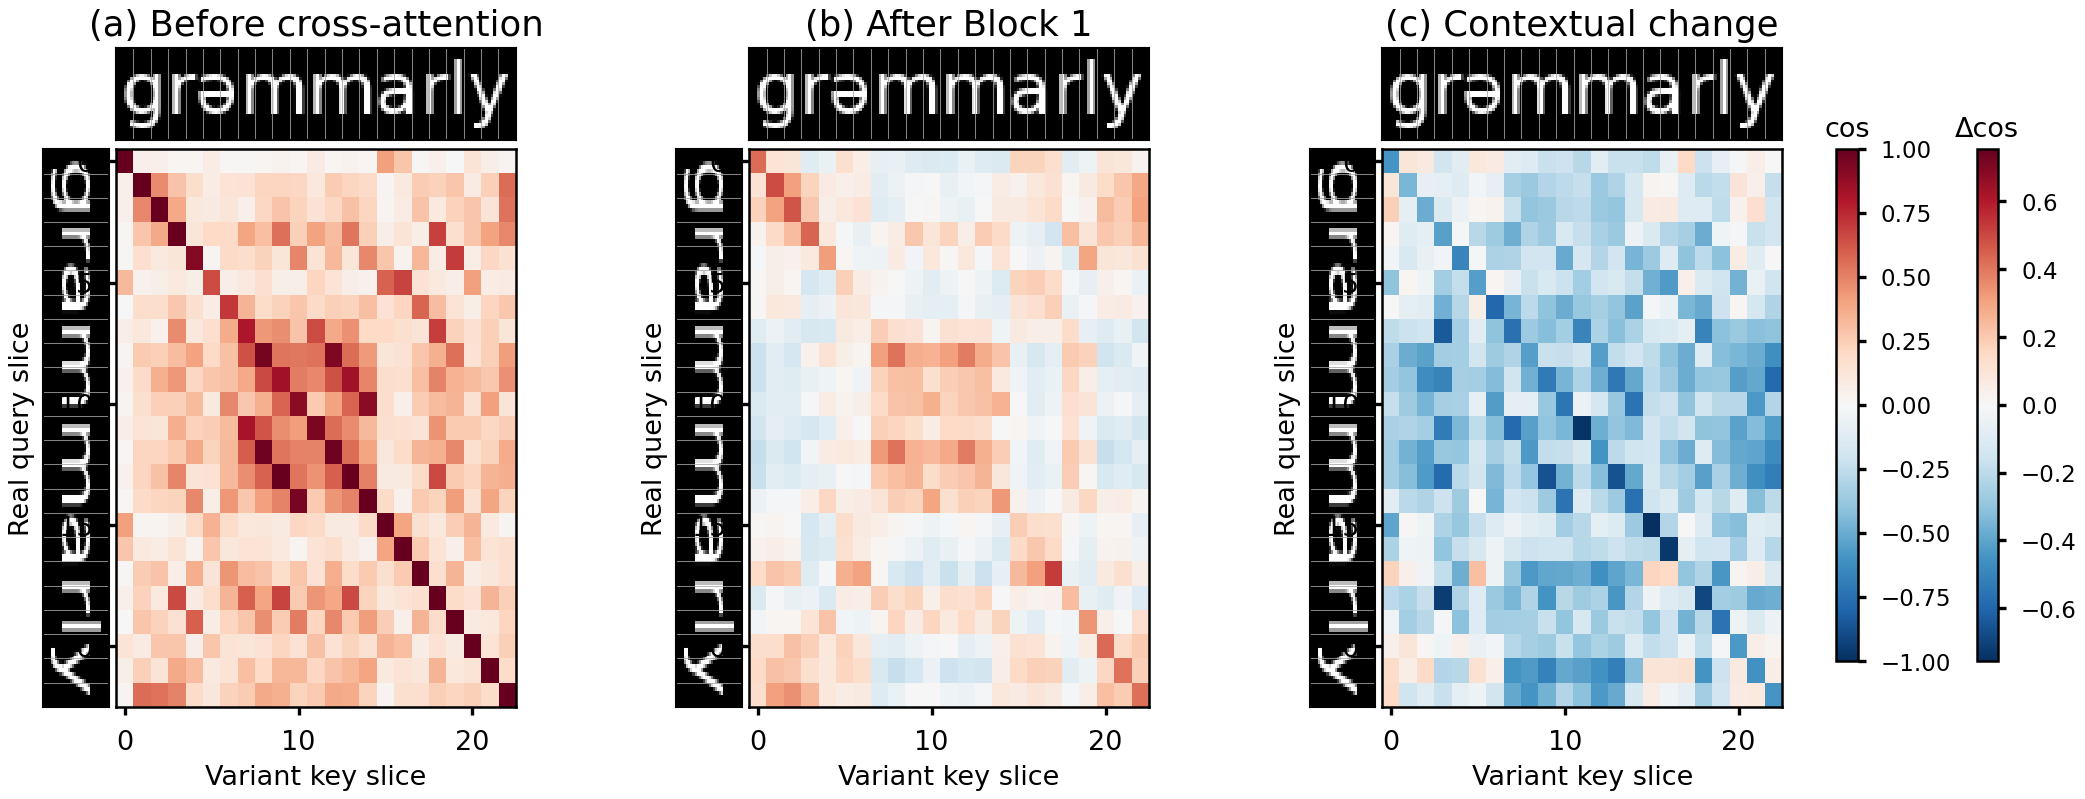
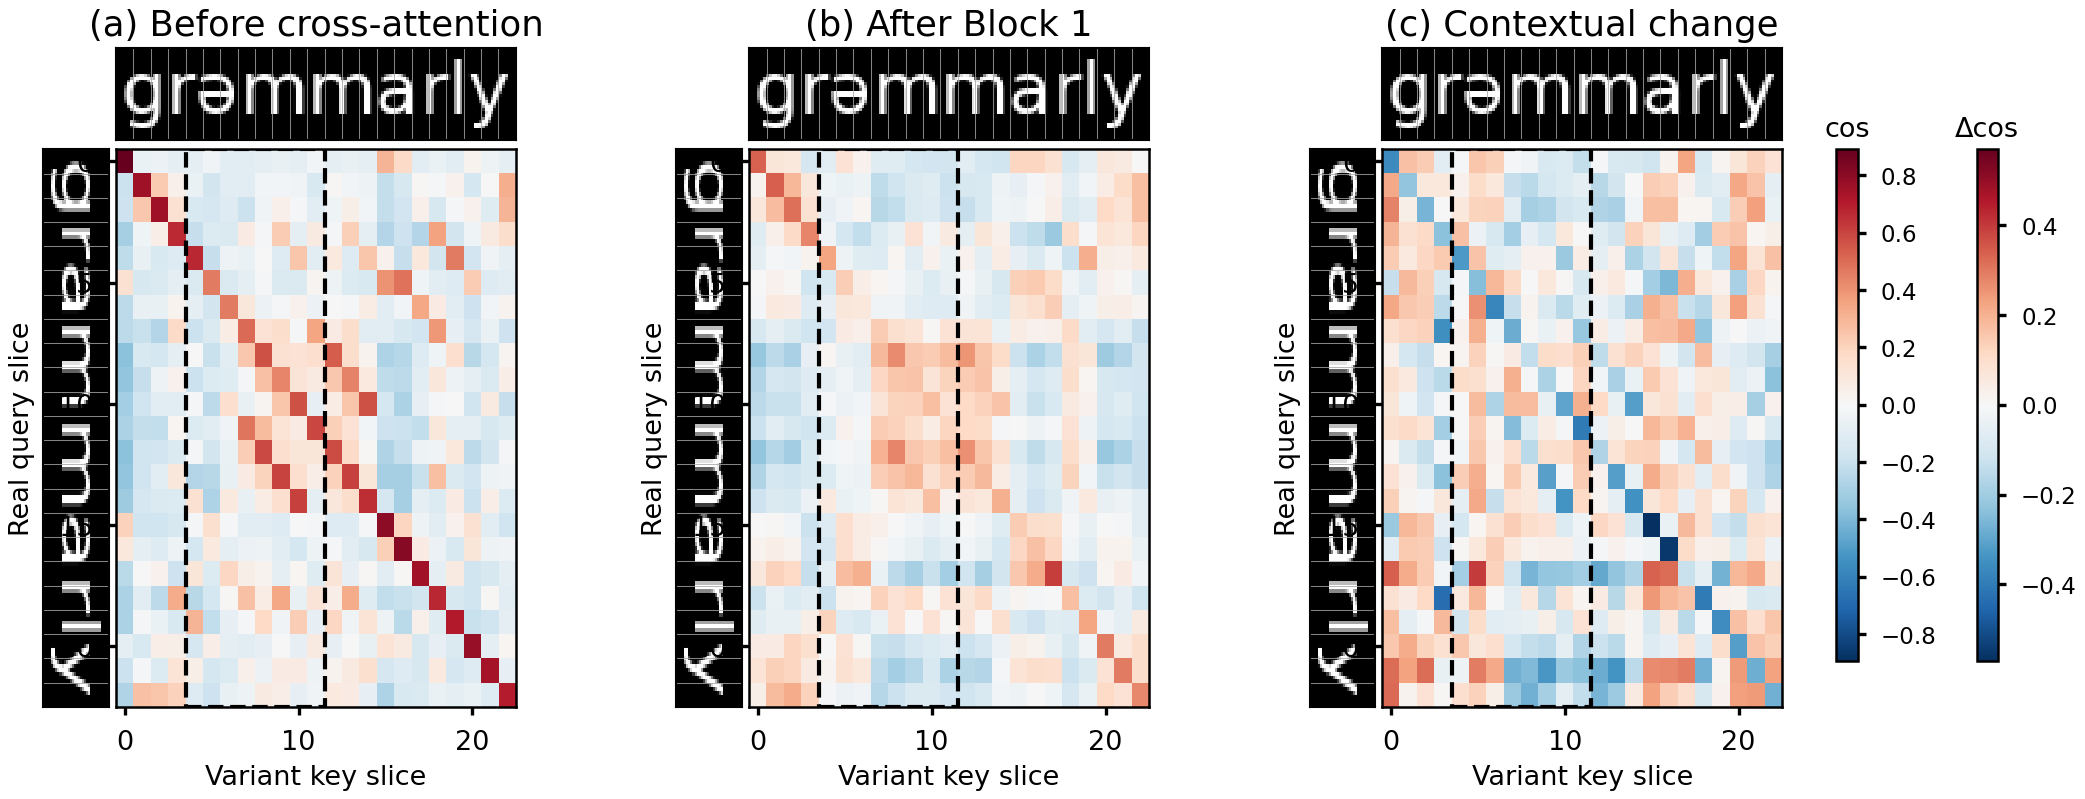
Clarify contextual similarity changes

diff --git a/synth_dataset/scripts/build_paper_alignment_figures.py b/synth_dataset/scripts/build_paper_alignment_figures.py
@@ -210,6 +210,7 @@ def add_map_panel(
     vmax: float,
     x_label: str,
     y_label: str,
+    highlight_columns: tuple[int, int] | None = None,
 ) -> Any:
     grid = slot.subgridspec(
         2, 2, width_ratios=(1.15, 7.0), height_ratios=(1.15, 7.0), wspace=0.03, hspace=0.03
@@ -248,6 +249,16 @@ def add_map_panel(
     )
     heat.set_xlabel(x_label, fontsize=6.5, labelpad=2)
     heat.tick_params(labelsize=6.5, length=2)
+    if highlight_columns is not None:
+        start, end = highlight_columns
+        heat.axvspan(
+            start - 0.5,
+            end + 0.5,
+            facecolor="none",
+            edgecolor="black",
+            linewidth=1.0,
+            linestyle="--",
+        )
     return image
 
 
@@ -563,24 +574,50 @@ def plot_cross_attention_contextual_similarity(
             pair.mask_b,
         )
     after = pairwise_cosine(contextual_b, contextual_a)
-    change = after - before
+    # Remove each query's mean compatibility. Raw cosine values undergo a
+    # broad shift after LayerNorm and the FFN, which obscures changes in the
+    # relative key-alignment pattern that cross-attention actually consumes.
+    before_centered = before - before.mean(axis=1, keepdims=True)
+    after_centered = after - after.mean(axis=1, keepdims=True)
+    change = after_centered - before_centered
 
-    shared_min = float(min(before.min(), after.min()))
-    shared_max = float(max(before.max(), after.max()))
-    if shared_min < 0.0:
-        similarity_limit = max(abs(shared_min), abs(shared_max))
-        similarity_cmap = "RdBu_r"
-        similarity_vmin = -similarity_limit
-        similarity_vmax = similarity_limit
-    else:
-        similarity_cmap = "Reds"
-        similarity_vmin = 0.0
-        similarity_vmax = 1.0
+    similarity_limit = float(
+        max(np.abs(before_centered).max(), np.abs(after_centered).max())
+    )
+    similarity_cmap = "RdBu_r"
+    similarity_vmin = -similarity_limit
+    similarity_vmax = similarity_limit
     change_limit = float(np.abs(change).max())
 
+    real_slices, _ = render_slices(real, config)
+    if real_slices.shape != pair.slices_a.shape:
+        raise ValueError(
+            "Changed-slice highlighting requires equal real and variant slice shapes; got "
+            f"{tuple(real_slices.shape)} and {pair.slices_a.shape}"
+        )
+    pixel_change = np.mean(
+        np.abs(pair.slices_a - real_slices.numpy()), axis=(1, 2)
+    )
+    changed_indices = np.flatnonzero(pixel_change > 1e-6)
+    if not changed_indices.size:
+        raise ValueError("No changed rendered slices found for contextual similarity figure")
+    changed_span = (int(changed_indices.min()), int(changed_indices.max()))
+
     panels = (
-        ("(a) Before cross-attention", before, similarity_cmap, similarity_vmin, similarity_vmax),
-        ("(b) After Block 1", after, similarity_cmap, similarity_vmin, similarity_vmax),
+        (
+            "(a) Before cross-attention",
+            before_centered,
+            similarity_cmap,
+            similarity_vmin,
+            similarity_vmax,
+        ),
+        (
+            "(b) After Block 1",
+            after_centered,
+            similarity_cmap,
+            similarity_vmin,
+            similarity_vmax,
+        ),
         ("(c) Contextual change", change, "RdBu_r", -change_limit, change_limit),
     )
     figure = plt.figure(figsize=(7.2, 3.05))
@@ -602,6 +639,7 @@ def plot_cross_attention_contextual_similarity(
                 vmax=vmax,
                 x_label="Variant key slice",
                 y_label="Real query slice",
+                highlight_columns=changed_span,
             )
         )
     similarity_axis = figure.add_axes((0.875, 0.22, 0.010, 0.56))
@@ -621,10 +659,23 @@ def plot_cross_attention_contextual_similarity(
         "direction": "real_query_to_variant_key",
         "before_range": [float(before.min()), float(before.max())],
         "after_range": [float(after.min()), float(after.max())],
+        "before_centered_range": [
+            float(before_centered.min()),
+            float(before_centered.max()),
+        ],
+        "after_centered_range": [
+            float(after_centered.min()),
+            float(after_centered.max()),
+        ],
         "change_range": [float(change.min()), float(change.max())],
+        "changed_variant_key_slices": changed_indices.tolist(),
+        "highlighted_variant_key_span": list(changed_span),
         "shared_similarity_scale": [similarity_vmin, similarity_vmax],
         "symmetric_change_limit": change_limit,
-        "definition": "cosine(after_block_1) - cosine(before_cross_attention)",
+        "definition": (
+            "row_centered_cosine(after_block_1) - "
+            "row_centered_cosine(before_cross_attention)"
+        ),
     }
 
 
@@ -729,11 +780,14 @@ def main() -> int:
         "weights. Subtracting the matched baseline suppresses static boundary attention and "
         "isolates changes associated with the substituted glyph. Red denotes increased and "
         "blue denotes decreased attention relative to the no-change pair.\n\n"
-        "Figure: Cross-attention contextualization of pairwise slice similarity. Pairwise "
-        "cosine similarity between real-name query slices and variant key slices is shown "
-        "before cross-attention, after the first complete cross-attention and feed-forward "
-        "block, and as the signed post-minus-pre difference. The first two panels share a "
-        "similarity scale; the difference panel uses a separate zero-centered scale.\n",
+        "Figure: Cross-attention contextualization of pairwise slice similarity. Row-centered "
+        "pairwise cosine similarity between real-name query slices and variant key slices is "
+        "shown before cross-attention, after the first complete cross-attention and "
+        "feed-forward block, and as the signed post-minus-pre difference. Row-centering removes "
+        "the mean compatibility of each query and emphasizes relative key preference. Dashed "
+        "boxes mark the variant slices whose rendered pixels differ from the real name. The "
+        "first two panels share a similarity scale; the difference panel uses a separate "
+        "zero-centered scale.\n",
         encoding="utf-8",
     )
     print(f"Wrote paper figures to {args.output_dir}", flush=True)
